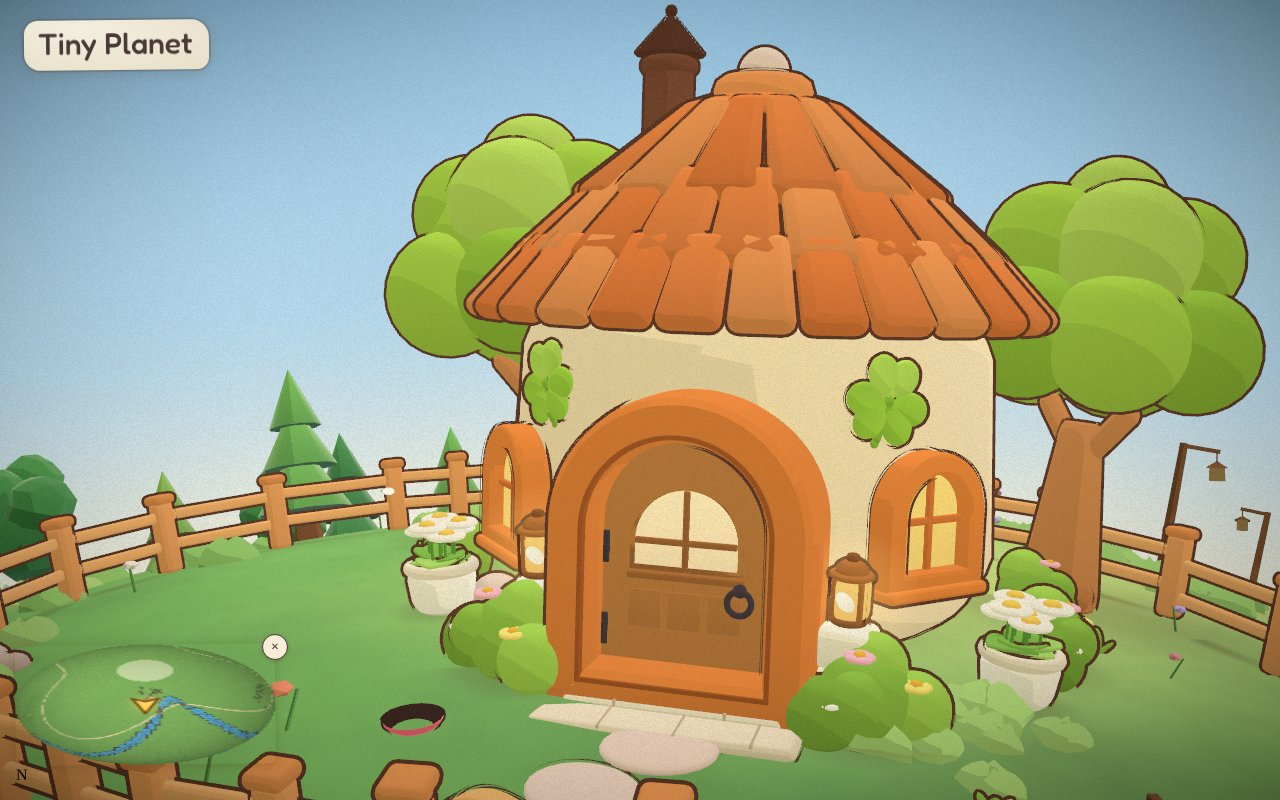
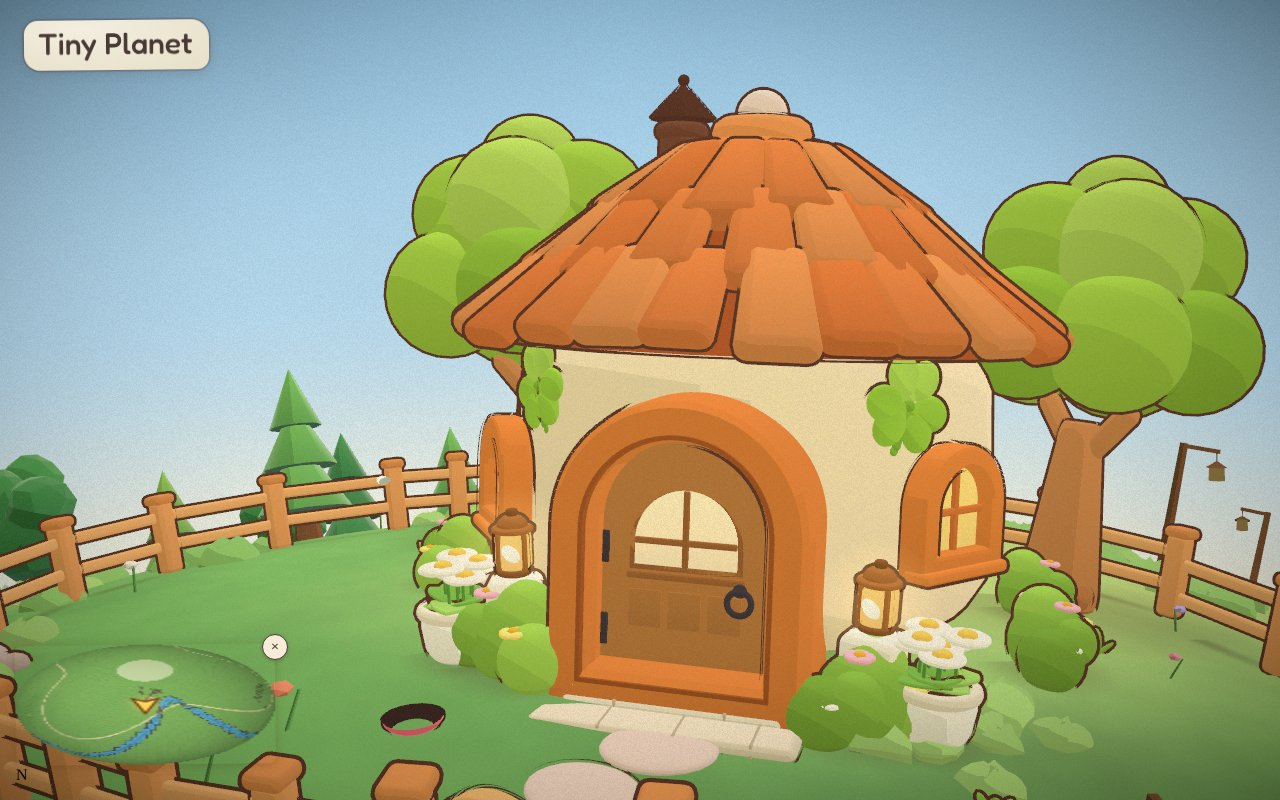
Home exterior: back to the wider-walls cone-roof shape (f417cc6) with the orange door arch, hand-made uneven roof tiles
- Cottage shape, windows, chimney and entrance restored from the 'wider walls' version
- Keeps the current colours: bright orange door surround (opts.frame)
- Roof tiles wobble like hand-made clay: lengths (ragged eave), widths, lift and swing vary
  per tile, seeded so it is stable; opts.uneven (0 = neat) and opts.seed tune it

Claude-Session: https://claude.ai/code/session_01CNaBwK9YXZ5oYtTd2WVtoL

Changed region(s): [[0.3125, 0.0, 0.8438, 0.9375], [0.2812, 0.5938, 0.3125, 0.625]]

diff --git a/src/props/items/exterior.js b/src/props/items/exterior.js
@@ -35,17 +35,20 @@ function clover(k, s = 1, lean = 1) {
   k.ball([0.006 * s, 0.006 * s, 0.004], [lean * 0.014 * s, -0.05 * s, z], 'cloverStem', { out: false })
 }
 
+const hash = (n) => { const x = Math.sin(n * 12.9898 + 4.1414) * 43758.5453; return x - Math.floor(x) } // 0..1, stable per n
+
 // ---------- the cottage ----------
 // A squat round plaster house under a three-tier tiled roof with a knob on top, after the reference: her real front
 // door (doorLeaf/doorFrame, the same as inside), arched glowing windows with clover sprigs, a round bath porthole and
-// a tall chimney where the stove flue leaves the room (phi -50). Window angles roughly follow the interior (sunny window -112ish,
+// a chimney where the stove flue leaves the room (phi -50). Window angles follow the interior (sunny window -112ish,
 // kitchen window -13, porthole 47), so the outside and inside agree.
-//   opts: r, h (wall radius + height), roofR (roof size, independent of the walls), belly (how much the walls bulge), windows: [{ phi, clover }], porthole (phi | null), chimney: { phi, r } | null,
+//   opts: uneven (0..1, hand-made wobble of the roof tiles), seed, frame (door arch colour), r, h (wall radius + height), roofR (roof size, independent of the walls), belly (how much the walls bulge), windows: [{ phi, clover }], porthole (phi | null), chimney: { phi, r } | null,
 //         tiers (1-3), knob, door
-defineProp('cottage', { name: 'Round cottage', size: [1.26, 1.4, 1.26], tags: ['outdoor', 'building'],
+defineProp('cottage', { name: 'Round cottage', size: [1.26, 1.16, 1.26], tags: ['outdoor', 'building'],
   pal: { wall: '#fbe6c6', roof: '#f08a4b', roof2: '#f59c5c', roof3: '#ec8243', roofDark: '#b85a2c', trim: '#e8873f', pane: '#ffd873', bar: '#d9773a', clover: '#9ccf45', clover2: '#b4de5e', cloverStem: '#86bb3c', chimney: '#7c4b39', chimneyCap: '#5d382b', knob: '#f6ddd4', porthole: '#cfe7ee' },
-  opts: { r: 0.48, roofR: 0.44, h: 0.7, belly: 0.14, windows: [{ phi: -132, clover: true }, { phi: 132, clover: true }, { phi: -13 }], porthole: 47, chimney: { phi: -50, r: 0.36 }, tiers: 3, knob: true, door: true } }, (k, o) => {
+  opts: { r: 0.48, roofR: 0.44, h: 0.62, belly: 0.14, windows: [{ phi: -125, clover: true }, { phi: 125, clover: true }, { phi: -13 }], porthole: 47, chimney: { phi: -50, r: 0.3 }, tiers: 3, knob: true, door: true, uneven: 0.6, seed: 3 } }, (k, o) => {
   const RW = o.r, HW = o.h
+  // walls: a soft drum, a touch wider at the foot
   // walls: a plump, soft drum (a marshmallow): bulging out round the middle, a touch wider at the foot, very round edges
   const TAPER = -0.03, BELLY = o.belly
   k.pill([RW, HW], [0, HW / 2, 0], 'wall', { bevel: 0.2, taper: TAPER, belly: BELLY, hi: 0.06, shade: 0.12 })
@@ -53,12 +56,12 @@ defineProp('cottage', { name: 'Round cottage', size: [1.26, 1.4, 1.26], tags: ['
   let rDoor = 0; for (let y = 0; y <= 0.5; y += 0.01) rDoor = Math.max(rDoor, rAt(y)) // the door stands clear of the bulge
   // front door: the interior's own door + surround, set into a deep frame that buries itself in the curved wall
   if (o.door) {
-    k.use('doorFrame', mat(0, 0, rDoor - 0.05), { d: 0.2, f: 0.055, shadow: false, pal: { frame: o.frame || '#e3843f', inner: '#a95a2a' } }) // deep, so it sinks into the round wall at its edges
+    k.use('doorFrame', mat(0, 0, rDoor - 0.05), { d: 0.2, f: 0.05, shadow: false, pal: { frame: o.frame || '#e3843f', inner: '#a95a2a' } }) // deep, so it sinks into the round wall at its edges
     k.use('doorLeaf', mat(0, 0, rDoor + 0.004), { shadow: false })
   }
   // arched windows: orange frame, glowing panes behind a cross bar, a sill; a clover sprig above
   for (const w of o.windows || []) {
-    const y = 0.18, ww = 0.17, hr = 0.11 // tall: the arch tops out near the door's, as on the reference
+    const y = 0.21, ww = 0.17, hr = 0.09
     k.within(onWall(w.phi, rAt(y + 0.08) - 0.004, y), () => {
       k.arch(ww, hr, 0.01, [0, 0, 0.004], 'pane', { glow: true, bevel: 0 })
       k.archFrame(ww, hr, 0.026, 0.04, [0, 0, 0.012], 'trim')
@@ -66,38 +69,42 @@ defineProp('cottage', { name: 'Round cottage', size: [1.26, 1.4, 1.26], tags: ['
       k.box([ww, 0.014, 0.012], [0, hr * 0.9, 0.014], 'bar', { r: 0.004, out: false, seg: 2 })
       k.box([ww + 0.075, 0.024, 0.06], [0, -0.03, 0.026], 'trim', { r: 0.01, seg: 2 })
     })
-    if (w.clover) k.within(onWall(w.phi + (w.phi < 0 ? -9 : 9), rAt(0.5) - 0.01, 0.5), () => clover(k, 1.55, w.phi < 0 ? 1 : -1)) // above the window, nudged toward the door
+    if (w.clover) k.within(onWall(w.phi + (w.phi < 0 ? -10 : 10), rAt(0.49) - 0.008, 0.49), () => clover(k, 1.7, w.phi < 0 ? 1 : -1))
   }
   // the bath porthole: a round window with a thick ring
   if (o.porthole != null) k.within(onWall(o.porthole, rAt(0.34), 0.34), () => {
     k.pill([0.045, 0.012], [0, 0, 0.004], 'porthole', { glow: true, rot: [PI / 2, 0, 0], bevel: 0 })
     k.ring(0.05, 0.016, [0, 0, 0.01], 'trim')
   })
-  // roof: three tiers of narrow rounded tiles, each overhanging the one below, rising to a peaked top (the upper tiers
-  // steeper, like a pointed cap) over a cone core. Radii scale with roofR, so walls can widen under it.
-  const E = HW - 0.08, rk = o.roofR / 0.44 // eave height
-  const tiers = [[0.6, 0, 0.47, 0.15, 30], [0.5, 0.11, 0.33, 0.28, 22], [0.37, 0.24, 0.15, 0.44, 15]].slice(0, o.tiers)
-    .map(([re, ye, rt, yt, n]) => [re * rk, E + ye, rt * rk, E + yt, n])
-  k.cone([0.46 * rk, 0.5], [0, E + 0.25, 0], 'roofDark', { n: 20 }) // the core (its base is the roof's underside)
+  // roof: a cone core under three tiers of chunky rounded tiles, each tier overhanging the one below
+  const dy = HW - 0.52 // tiers are drawn for a 0.52 wall and lifted with it
+  const tiers = [[0.63, 0.48, 0.44, 0.64, 26], [0.48, 0.6, 0.3, 0.76, 19], [0.34, 0.72, 0.15, 0.87, 13]].slice(0, o.tiers)
+    .map(([re, ye, rt, yt, n]) => [re * o.roofR / 0.44, ye + dy, rt * o.roofR / 0.44, yt + dy, n]) // the roof keeps its own size (roofR), so walls can widen under it
+  k.cone([tiers[0][0] * 0.94, 0.52], [0, tiers[0][1] + 0.26, 0], 'roofDark', { n: 20 })
   tiers.forEach(([re, ye, rt, yt, n], ti) => {
-    const L = Math.hypot(re - rt, yt - ye), th = Math.atan2(re - rt, yt - ye), rm = (re + rt) / 2, ym = (ye + yt) / 2, t = 0.045
-    const tau = (rt / re - 1) / (rt / re + 1), w = 2 * PI * rm / n * 0.97 // a hair narrower than the gap: the tiles read one by one
-    for (let i = 0; i < n; i++) { const a = (i + ti * 0.5) / n * PI * 2, rr = rm + t / 2 * Math.cos(th)
-      k.box([w, L * 1.08, t], [Math.sin(a) * rr, ym + t / 2 * Math.sin(th), Math.cos(a) * rr], i % 3 === 1 ? 'roof2' : i % 3 === 2 ? 'roof3' : 'roof', { rot: [-th, a, 0], order: 'YXZ', r: t * 0.48, taper: tau, seg: 2, hi: 0.1, shade: 0.3 }) }
+    const L = Math.hypot(re - rt, yt - ye), th = Math.atan2(re - rt, yt - ye), rm = (re + rt) / 2, ym = (ye + yt) / 2, t = 0.05
+    const tau = (rt / re - 1) / (rt / re + 1), w = 2 * PI * rm / n * 0.98 // a hair narrower than the gap: the tiles read one by one
+    for (let i = 0; i < n; i++) {
+      // hand-made unevenness (o.uneven, 0 = machine-neat): each tile a little longer or shorter (a ragged eave), wider
+      // or narrower, lifted a touch off the slope and swung a few degrees in its own plane. Seeded, so it never changes.
+      const j = (q) => (hash(ti * 97 + i * 13 + q * 7 + o.seed) - 0.5) * 2 * o.uneven, dl = L * 1.08 * 0.14 * j(1), lift = 0.06 * j(2)
+      const a = (i + ti * 0.5 + 0.22 * j(3)) / n * PI * 2, thi = th + lift, rr = rm + t / 2 * Math.cos(thi) + Math.sin(thi) * dl / 2
+      k.box([w * (1 + 0.1 * j(4)), L * 1.08 + dl, t], [Math.sin(a) * rr, ym + t / 2 * Math.sin(thi) - Math.cos(thi) * dl / 2, Math.cos(a) * rr], i % 3 === 1 ? 'roof2' : i % 3 === 2 ? 'roof3' : 'roof', { rot: [-thi, a, 0.08 * j(5)], order: 'YXZ', r: t * 0.48, taper: tau, seg: 2, hi: 0.1, shade: 0.3 })
+    }
   })
   const top = tiers[tiers.length - 1][3]
   k.pill([tiers[tiers.length - 1][2] + 0.02, 0.07], [0, top + 0.01, 0], 'roof', { bevel: 0.45 })
   if (o.knob) { k.ring(0.075, 0.034, [0, top + 0.06, 0], 'roof2', { rot: [PI / 2, 0, 0] }); k.ball(0.055, [0, top + 0.1, 0], 'knob') }
-  // chimney: a tall round stack standing up out of the roof with a pointed hat, where the stove flue leaves the room (back-left)
+  // chimney: a round brick stack up through the roof with a pointed hat
   if (o.chimney) { const c = o.chimney, x = Math.sin(c.phi * D2R) * c.r, z = -Math.cos(c.phi * D2R) * c.r
-    k.pill([0.058, 0.62], [x, E + 0.31, z], 'chimney', { bevel: 0.1 })
-    k.pill([0.068, 0.045], [x, E + 0.6, z], 'chimney', { bevel: 0.4 })
-    k.cone([0.085, 0.1], [x, E + 0.675, z], 'chimneyCap', { n: 12 })
-    k.ball(0.015, [x, E + 0.73, z], 'chimneyCap', { out: false })
+    k.pill([0.052, 0.44], [x, 0.76 + dy, z], 'chimney', { bevel: 0.1 })
+    k.pill([0.062, 0.04], [x, 0.96 + dy, z], 'chimney', { bevel: 0.4 })
+    k.cone([0.078, 0.085], [x, 1.03 + dy, z], 'chimneyCap', { n: 12 })
+    k.ball(0.014, [x, 1.08 + dy, z], 'chimneyCap', { out: false })
   }
 })
 // where the cottage's smoke leaves (room units, house-local) for the given opts
-export const chimneyTop = (c = { phi: -50, r: 0.36 }, h = 0.7) => [Math.sin(c.phi * D2R) * c.r, h + 0.66, -Math.cos(c.phi * D2R) * c.r]
+export const chimneyTop = (c = { phi: -50, r: 0.3 }, h = 0.62) => [Math.sin(c.phi * D2R) * c.r, 1.0 + h - 0.52, -Math.cos(c.phi * D2R) * c.r]
 
 // ---------- puffy tree ----------
 // A broccoli tree: a stout tapered trunk with root flares and two forks, under a crown of soft round puffs.

diff --git a/src/home/yard.js b/src/home/yard.js
@@ -4,7 +4,7 @@
 // meshes), so the startup chunk can use it for colliders / bench / garden beds while the art loads lazily
 // (home/Exterior.jsx). Edit a number here and everything that depends on it (art, colliders, prompts) follows.
 export const HOME_S = 1.25
-export const COTTAGE = { chimney: { phi: -50, r: 0.36 } } // cottage opts shared with the smoke
+export const COTTAGE = { chimney: { phi: -50, r: 0.3 } } // cottage opts shared with the smoke
 export const YARD = {
   houseR: 0.7, // collider radius (the bulging walls + entrance bushes)
   doorZ: 0.45, outZ: 1.0, // 'Go inside' prompt point; where she steps out to
@@ -38,4 +38,4 @@ export function yardColliders() {
   return c
 }
 // chimney top, house frame (for the smoke): cottage room units * HOME_S (exterior.js chimneyTop, default wall height)
-export const CHIMNEY_TOP = (() => { const { phi, r } = COTTAGE.chimney, d = Math.PI / 180; return [Math.sin(phi * d) * r * HOME_S, 1.36 * HOME_S, -Math.cos(phi * d) * r * HOME_S] })()
+export const CHIMNEY_TOP = (() => { const { phi, r } = COTTAGE.chimney, d = Math.PI / 180; return [Math.sin(phi * d) * r * HOME_S, 1.12 * HOME_S, -Math.cos(phi * d) * r * HOME_S] })()

diff --git a/src/home/Exterior.jsx b/src/home/Exterior.jsx
@@ -26,9 +26,9 @@ export function buildYard(homeN, onHouse, lift) {
     k.shadow(1.5, 1.5)
     // entrance, matching the interior's: lantern posts hugging the door frame, steps + mat, daisy pots, bushes
     const fz = 0.55 * S
-    for (const s of [-1, 1]) k.use('lanternPost', at(s * 0.36, fz - 0.03, -s * 0.15))
+    for (const s of [-1, 1]) k.use('lanternPost', at(s * 0.42, fz - 0.02, -s * 0.25))
     k.use('steps', at(0, fz + 0.02, 0), { w: 0.4, mat: true })
-    for (const s of [-1, 1]) k.use('flowerPot', at(s * 0.74, 0.4, s)) // out past the windows
+    for (const s of [-1, 1]) k.use('flowerPot', at(s * 0.56, fz + 0.0, s))
     // flowering bushes round the foot of the wall, plain bushes toward the back
     ;[[-150, 1, 5], [150, 1, 4], [-100, 0.9, 3], [100, 0.95, 4], [-65, 0.85, 0], [70, 0.85, 2], [-20, 0.8, 0], [20, 0.8, 0]].forEach(([deg, sc, fl], i) => {
       const [x, z] = polar(deg, 0.66 * S), m = at(x, z, -deg * Math.PI / 180 + Math.PI, S * sc)
